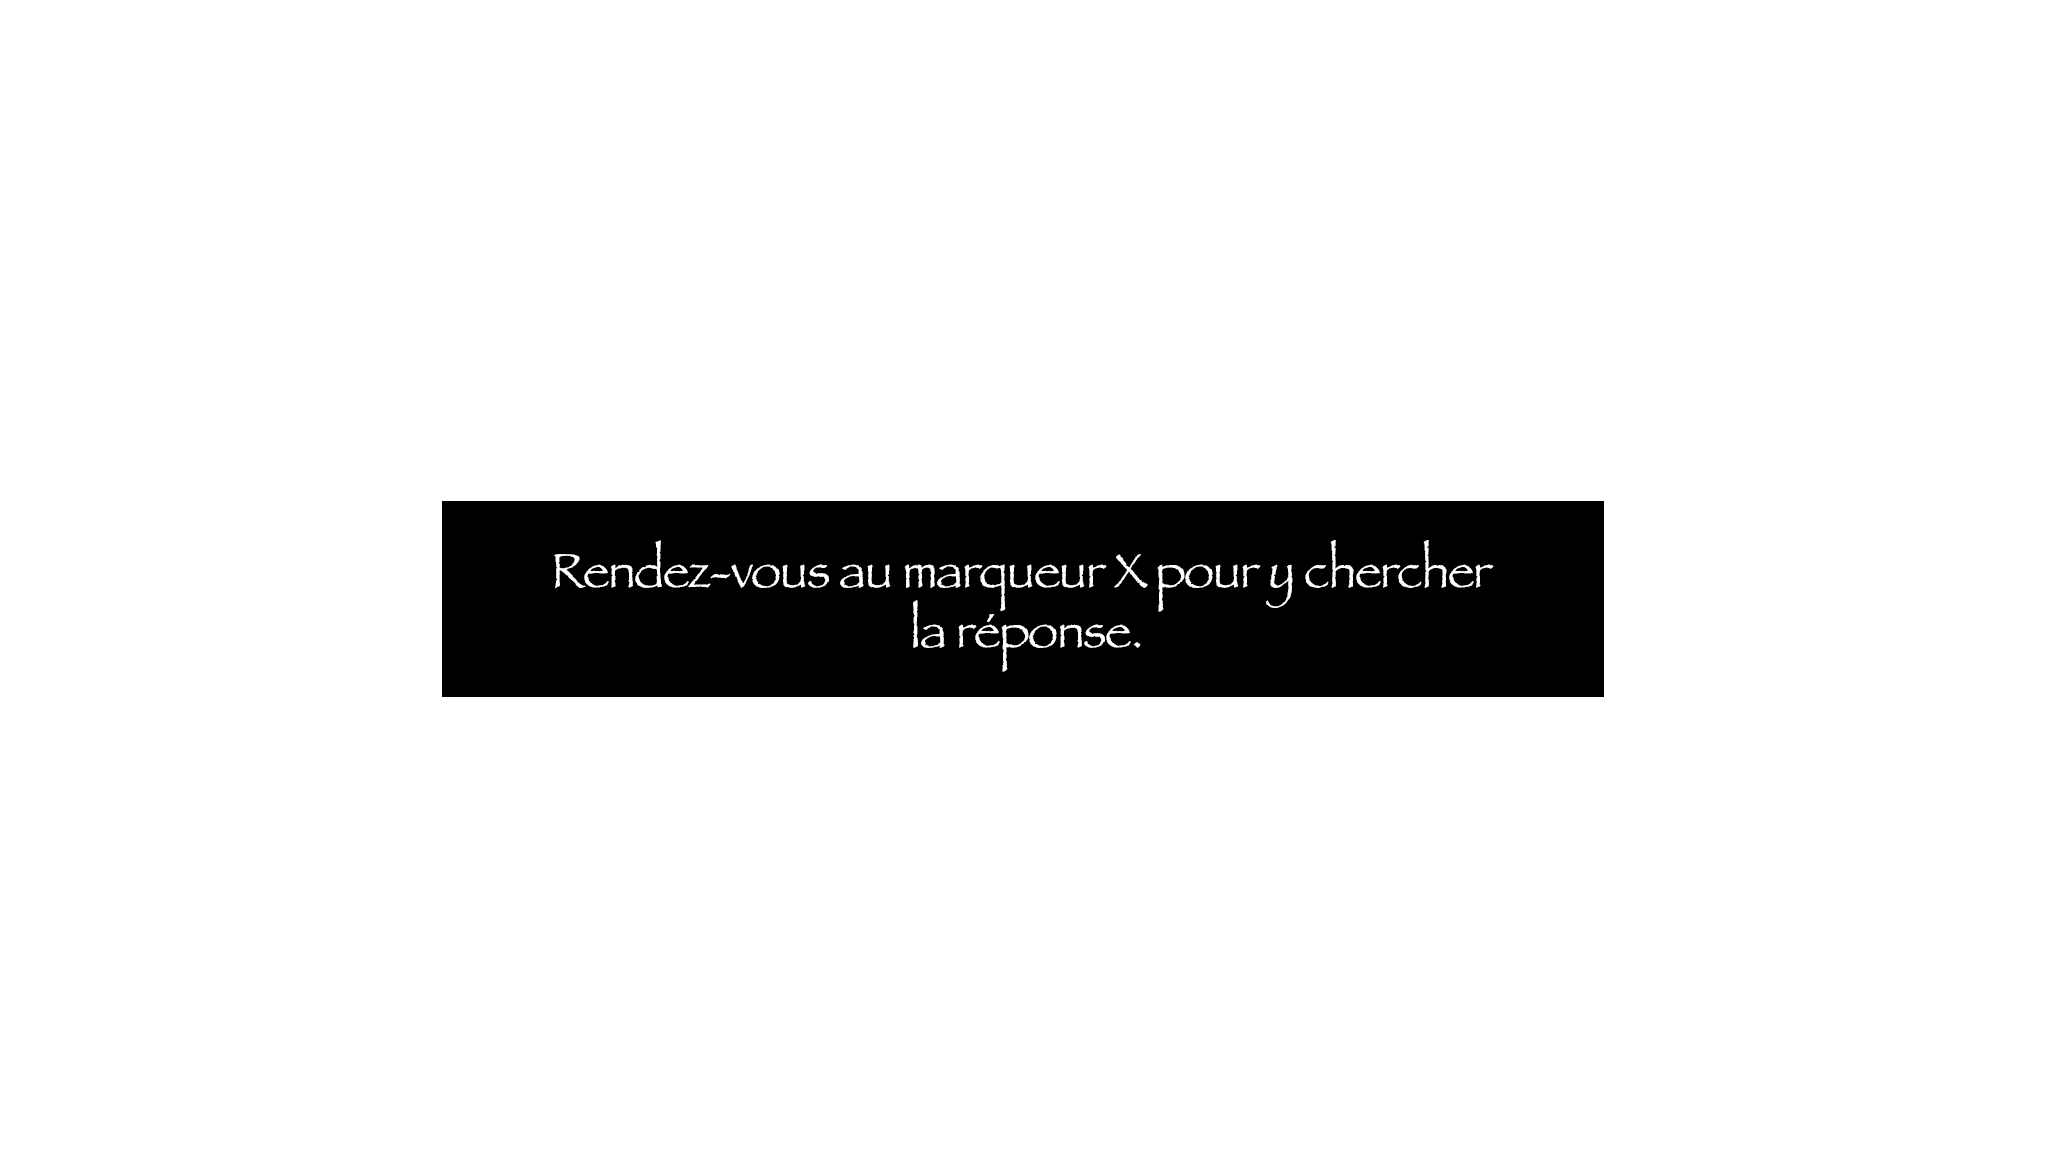
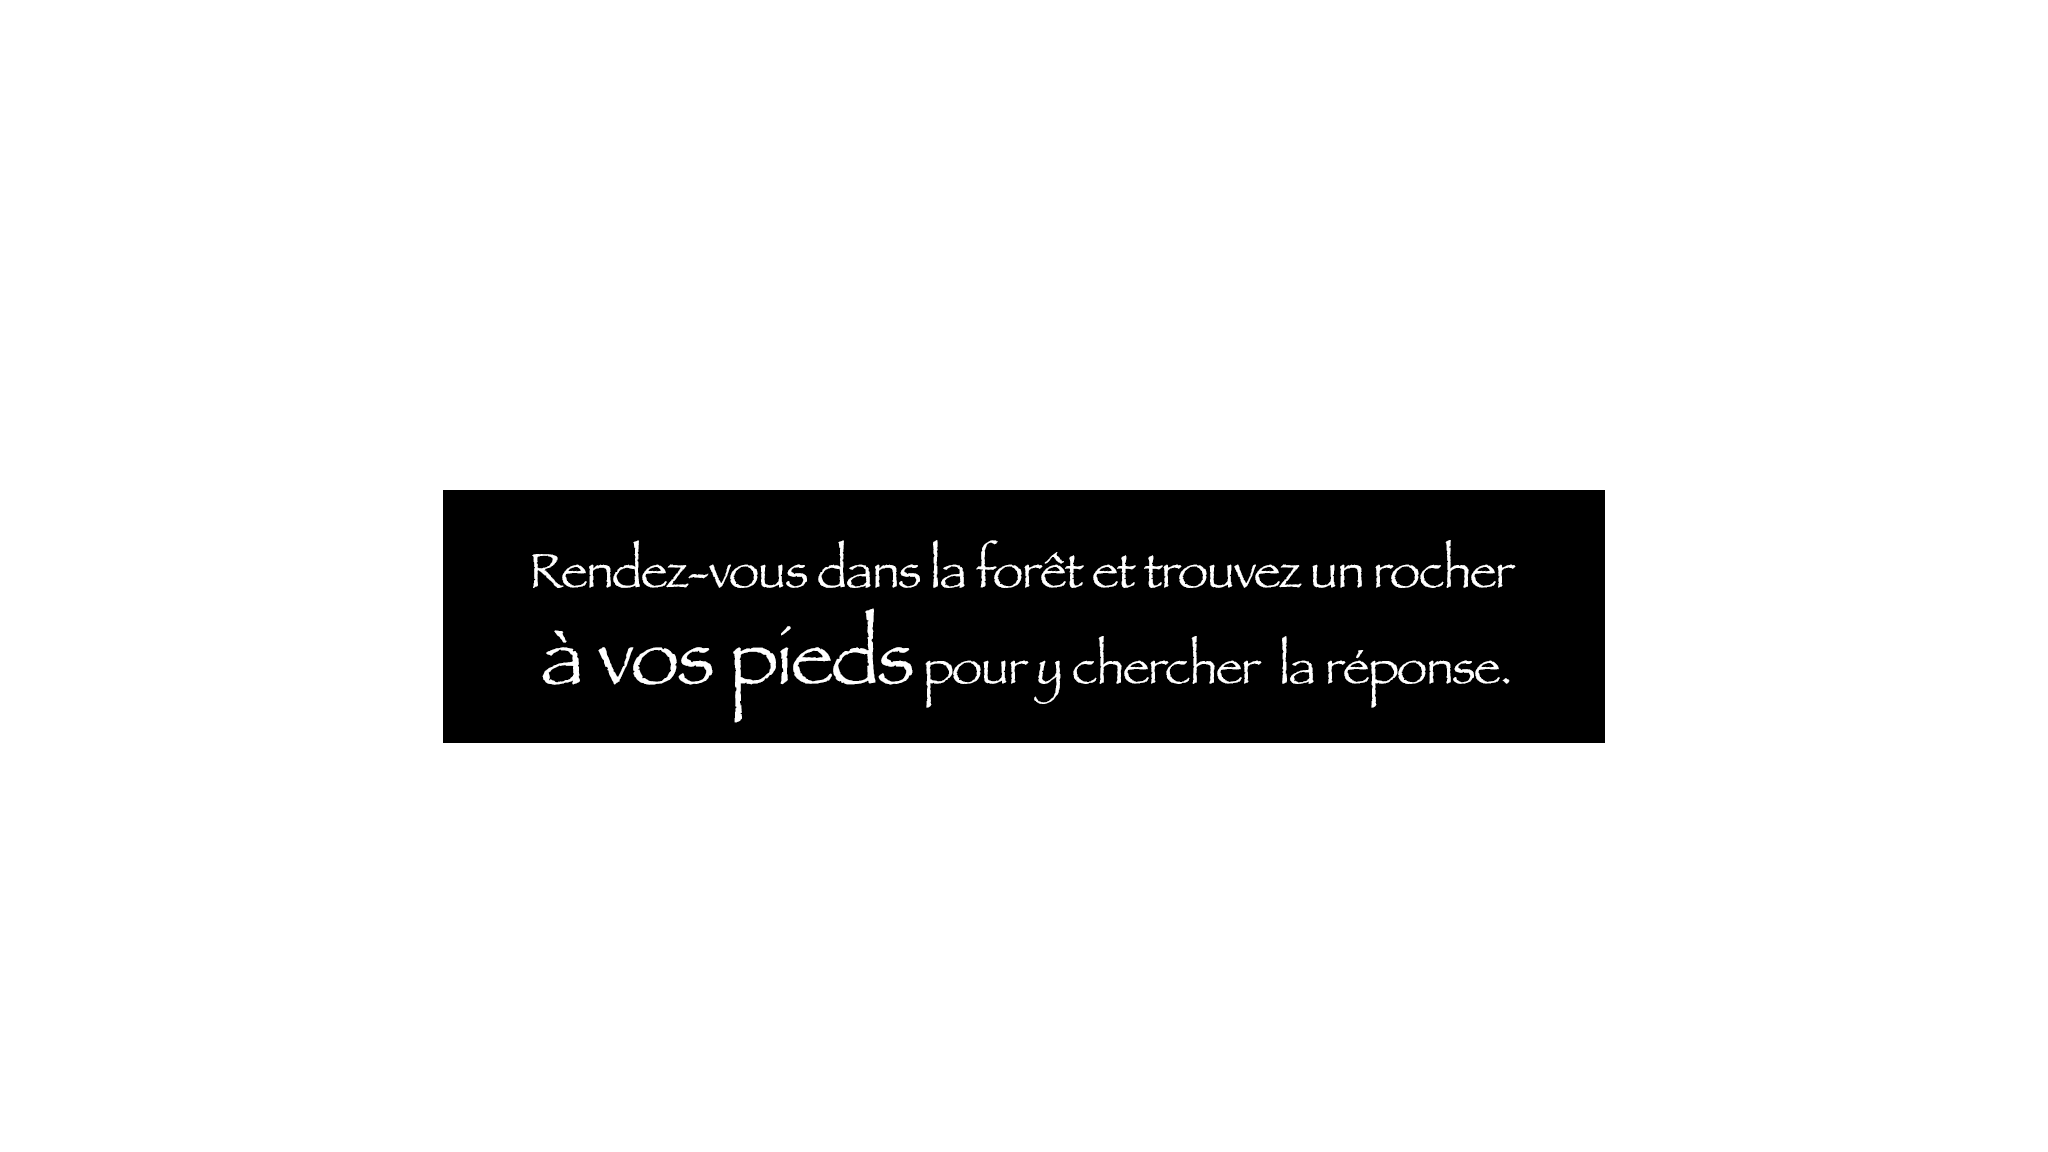
tkt on gère

Changed region(s): [[0.2188, 0.4688, 0.7812, 0.6562], [0.2188, 0.4062, 0.7812, 0.4375]]

diff --git a/joueur1.html b/joueur1.html
@@ -34,6 +34,8 @@
       <img id="f13" src="img/fonds/fond13.png" />
 
       <img id="c01" src="img/contexte/contexte.j1.p1.png" />
+      <img id="r01" src="img/contexte/réponse.p1.png" />
+      <img id="r02" src="img/contexte/réponse.p2.png" />
       
       <img id="m0101" src="img/1/img1.j1.p1.png" />
       <img id="m0301" src="img/3/img3.j1.p1.png" />
@@ -71,10 +73,8 @@
       <img id="m5701" src="img/57/img57.j1.p1.png" />
       <img id="m5901" src="img/59/img59.j1.p1.png" />
       <img id="m6101" src="img/61/img61.j1.p1.png" />
-      <img id="m6301" src="img/63/img63.j1.p1.png" />
-      <img id="m6501" src="img/65/img65.j1.p1.png" />
-      <img id="m6701" src="img/67/img67.j1.p1.png" />
-      <img id="m6901" src="img/69/img69.j1.p1.png" />
+      <img id="m6201" src="img/62/img62.j2.p1.png" />
+      <img id="m6001" src="img/60/img60.j2.p1.png" />
     
 
     </a-assets>
@@ -239,6 +239,7 @@
 
     <a-marker type="barcode" value="35" size="0.25">
       <a-image src="#f13" position="0 -0.2 0" rotation="90 0 0" width="-2.1" height="1.2"></a-image>
+      <a-image src="#m6001" position="0 0.4 0" rotation="90 0 180" width="-2.1" height="1.2"></a-image>
     </a-marker>
 
     <a-marker type="barcode" value="36" size="0.25">
@@ -326,6 +327,8 @@
 
     <a-marker type="barcode" value="54" size="0.1">
       <a-image src="#f07" position="0 -0.2 0" rotation="90 0 270" width="-2.1" height="1.2"></a-image>
+      <a-image src="#r01" position="0 0 0" rotation="90 0 270" width="-2.1" height="1.2"></a-image>
+      <a-image src="#r02" position="0 0.2 0" rotation="90 0 270" width="-2.1" height="1.2"></a-image>
       <a-image src="#m2501" position="0 0.4 0" rotation="90 0 270" width="-2.1" height="1.2"></a-image>
     </a-marker>
 
@@ -336,6 +339,7 @@
 
     <a-marker type="barcode" value="56" size="0.1">
       <a-image src="#f13" position="0 -0.2 0" rotation="90 0 180" width="-2.1" height="1.2"></a-image>
+      <a-image src="#m6201" position="0 0.4 0" rotation="90 0 180" width="-2.1" height="1.2"></a-image>
     </a-marker>
 
     <a-marker type="barcode" value="57" size="0.1">

diff --git a/joueur2.html b/joueur2.html
@@ -34,6 +34,8 @@
       <img id="f13" src="img/fonds/fond13.png" />
 
       <img id="c02" src="img/contexte/contexte.j2.p1.png" />
+      <img id="r01" src="img/contexte/réponse.p1.png" />
+      <img id="r02" src="img/contexte/réponse.p2.png" />
 
       <img id="m0201" src="img/2/img2.j2.p1.png" />
 	    <img id="m0401" src="img/4/img4.j2.p1.png" />
@@ -72,10 +74,8 @@
 	    <img id="m5801" src="img/58/img58.j2.p1.png" />
 	    <img id="m6001" src="img/60/img60.j2.p1.png" />
 	    <img id="m6201" src="img/62/img62.j2.p1.png" />
-	    <img id="m6401" src="img/64/img64.j2.p1.png" />
-	    <img id="m6601" src="img/66/img66.j2.p1.png" />
-    	<img id="m6801" src="img/68/img68.j2.p1.png" />
-    	<img id="m7001" src="img/70/img70.j2.p1.png" />
+      <img id="m5901" src="img/59/img59.j1.p1.png" />
+      <img id="m6101" src="img/61/img61.j1.p1.png" />
     
     </a-assets>
 
@@ -254,6 +254,7 @@
 
     <a-marker type="barcode" value="38" size="0.25">
       <a-image src="#f13" position="0 -0.2 0" rotation="90 0 180" width="-2.1" height="1.2"></a-image>
+      <a-image src="#m5901" position="0 0.4 0" rotation="90 0 180" width="-2.1" height="1.2"></a-image>
     </a-marker>
 
     <a-marker type="barcode" value="39" size="0.25">
@@ -283,6 +284,7 @@
 
     <a-marker type="barcode" value="44" size="0.1">
       <a-image src="#f13" position="0 -0.2 0" rotation="90 0 180" width="-2.1" height="1.2"></a-image>
+      <a-image src="#m6101" position="0 0.4 0" rotation="90 0 180" width="-2.1" height="1.2"></a-image>
     </a-marker>
 
     <a-marker type="barcode" value="45" size="0.1">
@@ -328,6 +330,8 @@
 
     <a-marker type="barcode" value="54" size="0.1">
       <a-image src="#f07" position="0 -0.2 0" rotation="90 0 270" width="-2.1" height="1.2"></a-image>
+      <a-image src="#r01" position="0 0 0" rotation="90 0 270" width="-2.1" height="1.2"></a-image>
+      <a-image src="#r02" position="0 0.2 0" rotation="90 0 270" width="-2.1" height="1.2"></a-image>
     </a-marker>
 
     <a-marker type="barcode" value="55" size="0.1">
